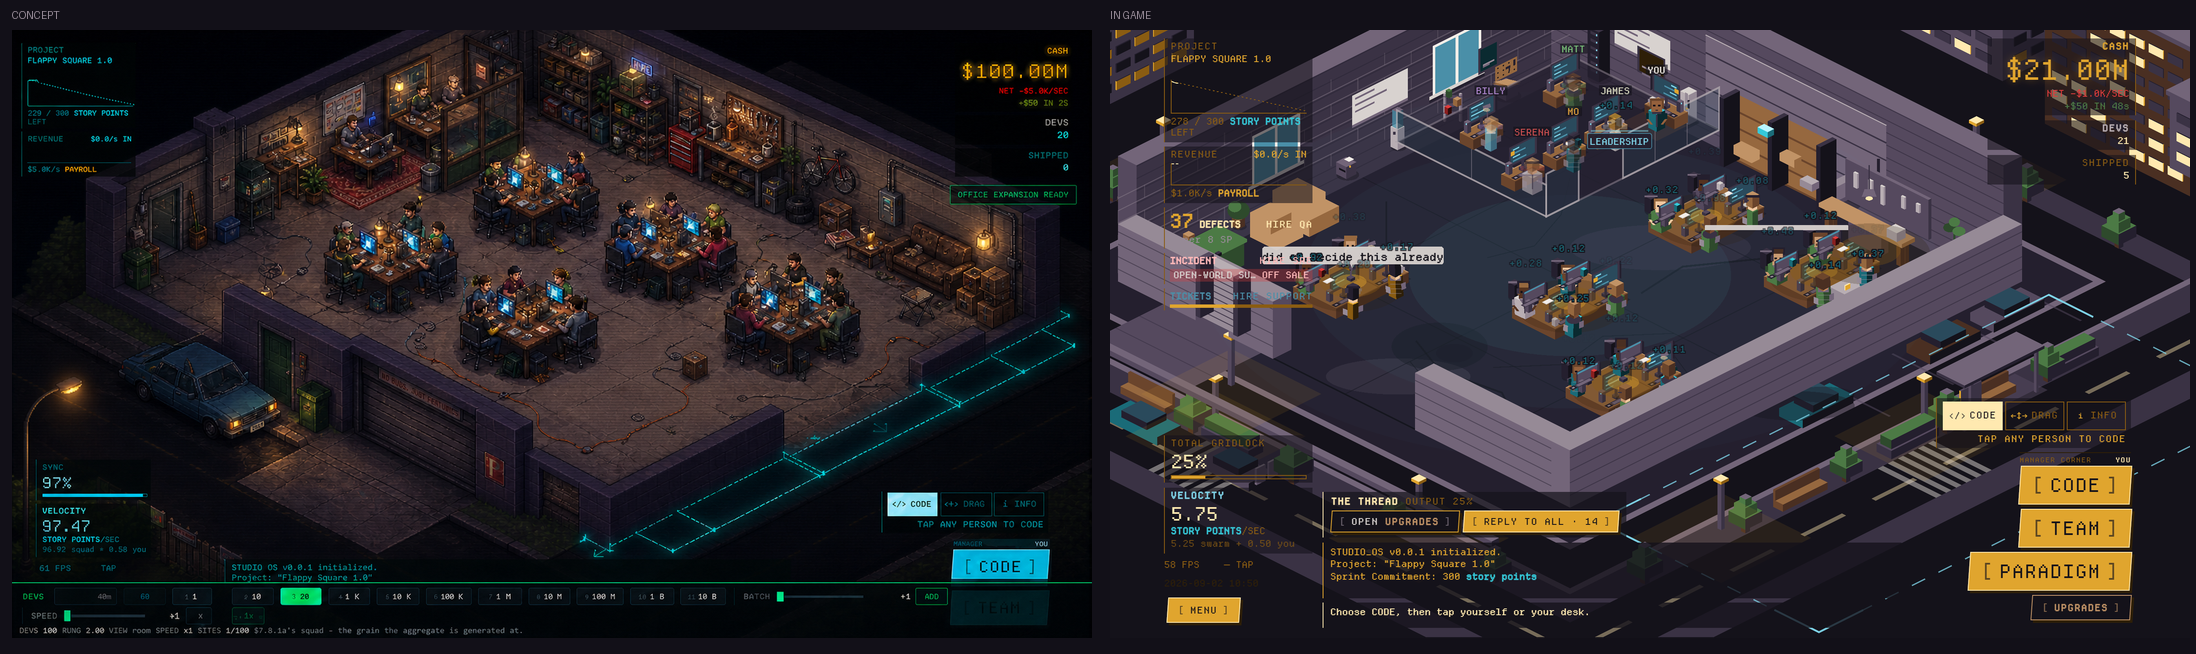
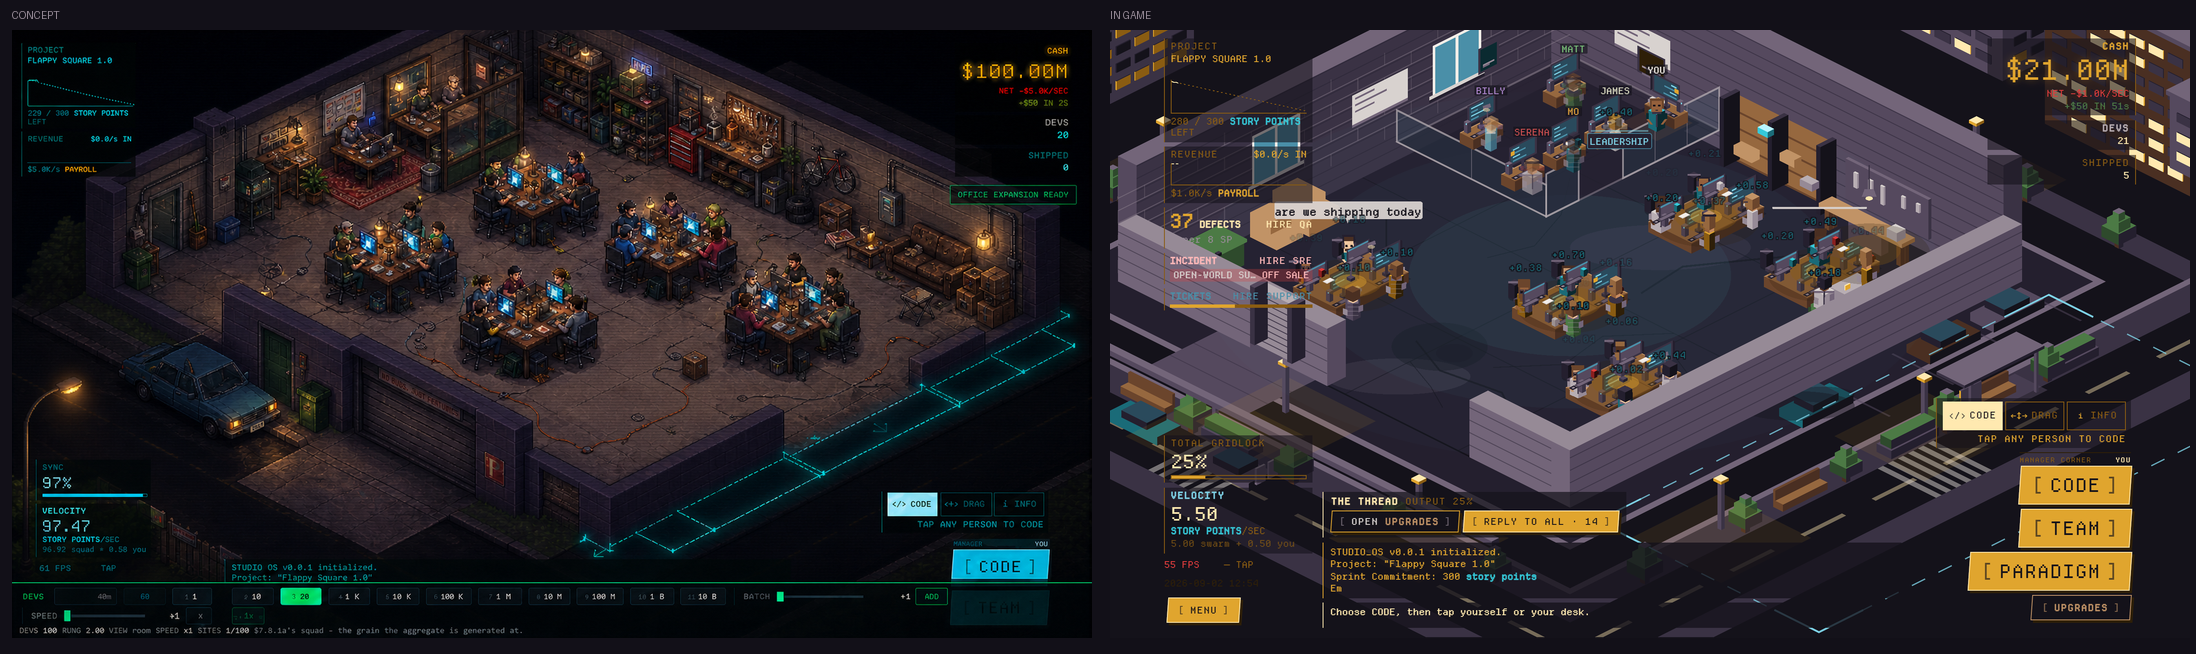
fix: one prop system per room, one vehicle door, and a gate that catches clashes
The water cooler drawn inside the executive glass was not a placement
mistake. The garage had two prop systems with a claim on the same walls:
7.8.0c's authored plots, and 7.8.1's ring that spaces dressing along the far
walls by arithmetic. The room had two workbenches, two fridges and two shelf
units, and the ring - which knows nothing about what else stands there - put
a cooler where the suite's pane goes. A plan and a generator cannot both own
the same wall; the plan wins, and the walk targets the ring used to supply as
a side effect now come from the plan's kettle and fridge.

The old up-and-over door painted on the back wall is gone. It was the
garage's one statement until 7.8.0b cut a real roll-up into the street wall,
and keeping both gave the room two front doors on opposite walls, one opening
onto the neighbour's plot. A garage has one vehicle door.

The gate now sits at 0.62 along the frontage rather than centred, because at
this camera the middle of that wall lands under the HUD's left column and the
one object the player most needs to see was behind HIRE SUPPORT. The concept
puts it right of centre for the same composition reason.

And the class has a gate now. Every instance of two objects in one place was
found by eye at four times magnification, which is not a method. The check is
every rectangle the garage claims - props, pods, and 7.8.12's suite converted
back into plan space - against every other from one list, plus containment
[…]

diff --git a/src/render/room.ts b/src/render/room.ts
@@ -3291,40 +3291,6 @@ function drawFridge(g: Graphics, x: number, y: number) {
   g.rect(x - 3.4, y - 18, 1.6, 1.6).fill(c(RAMPS.CALM[2]))
 }
 
-/**
- * The garage door — a segmented panel on the back-right wall.
- *
- * Part of the shell, not a prop: the studio grows *inside* the garage, so the
- * door stays through every expansion. Drawn as five horizontal bands in the
- * wall plane with a handle at the pull end, and it is the single strongest
- * "this is a garage" signal in the room — an office has neither a segmented
- * door nor a concrete slab to roll one over.
- *
- * `(x0, y0)` and `(x1, y1)` are the two ends of the door's floor line; `h` is
- * its height up the wall. The top edge is parallel to the bottom for the same
- * reason the skirting is: anything else would be a shape that does not lie in
- * the wall.
- */
-function drawGarageDoor(g: Graphics, x0: number, y0: number, x1: number, y1: number, h: number) {
-  g.moveTo(x0, y0)
-    .lineTo(x1, y1)
-    .lineTo(x1, y1 - h)
-    .lineTo(x0, y0 - h)
-    .closePath()
-    .fill(c(RAMPS.NEUTRAL[4]))
-  // The track shadow where the door meets the slab.
-  g.moveTo(x0, y0).lineTo(x1, y1).stroke({ width: 1.5, color: c(RAMPS.NEUTRAL[0]) })
-  // Five panels, four seams.
-  for (let i = 1; i < 5; i++) {
-    const k = i / 5
-    g.moveTo(x0, y0 - h * k)
-      .lineTo(x1, y1 - h * k)
-      .stroke({ width: 1.5, color: c(RAMPS.NEUTRAL[2]) })
-  }
-  // The lit top edge, and the handle at the pull end.
-  g.moveTo(x0, y0 - h).lineTo(x1, y1 - h).stroke({ width: 1, color: c(RAMPS.NEUTRAL[6]) })
-  g.rect(x1 - 10, y1 - h * 0.62, 3, h * 0.22).fill(c(RAMPS.NEUTRAL[1]))
-}
 
 /**
  * A UPVC window in a back wall — two flat casements in a white frame, the
@@ -5102,6 +5068,18 @@ export function buildRoom(): RoomHandle {
       garageProps.clear()
       for (const prop of GARAGE_PROPS) drawGarageProp(garageProps, planProject, prop)
       /*
+       * §7.8.6's errands need somewhere to walk to, and the ring used to supply
+       * it as a side effect of drawing. With the ring gone in this room the
+       * plan supplies it directly — the kettle and the fridge, which are what a
+       * garage actually sends people to.
+       */
+      for (const name of ['THE KETTLE', 'THE FRIDGE']) {
+        const plot = GARAGE_PROPS.find((prop) => prop.name === name)
+        if (!plot) continue
+        const at = planProject((plot.gx0 + plot.gx1) / 2 - 1.1, (plot.gy0 + plot.gy1) / 2)
+        spots.water.push(standingSpot(at.x, at.y))
+      }
+      /*
        * **The pendant over the workbench** — the garage's second warm source.
        *
        * §7.8.1's first frame is "a dark home garage, lit only by the monitor",
@@ -5550,17 +5528,19 @@ export function buildRoom(): RoomHandle {
             .stroke({ width: 1, color: c(RAMPS.NEUTRAL[5]), alpha: 0.25 })
         }
       }
-      // The garage door, centred on the back-right wall — the right wall's one
-      // statement, and the windows live on the left wall where the brick is.
-      // Drawn after the skirting so it stands on the slab rather than behind it.
-      drawGarageDoor(
-        shell,
-        topX + eastW * 0.3,
-        topY + eastH * 0.3,
-        topX + eastW * 0.7,
-        topY + eastH * 0.7,
-        WALL_H * 0.85,
-      )
+      /*
+       * **The up-and-over door on the back wall is gone.** §7.8.0c [2026-09-02].
+       *
+       * It was painted flat on the far-right wall and it was the garage's one
+       * statement — until §7.8.0b cut a *real* roll-up door into the street
+       * wall, with a reveal, guide rails, a lintel-free head and a forecourt
+       * outside it. Keeping both gave the room two front doors on opposite
+       * walls, one of which opened onto the neighbour's plot, and the painted
+       * one was the more prominent of the two.
+       *
+       * A garage has one vehicle door. The real one won, and the reason it wins
+       * is not that it is newer: it is that a car could be driven through it.
+       */
 
       // --- windows ------------------------------------------------------------
       //
@@ -5771,10 +5751,31 @@ export function buildRoom(): RoomHandle {
     const walls = ['left', 'right'] as const
     const counts = [0, 0]
     for (let i = 0; i < ring.length; i++) counts[i % 2]++
+    /*
+     * §7.8.0c — **the garage has one prop system, not two.**
+     *
+     * This ring places §7.8.1's dressing evenly along the two far walls by
+     * arithmetic: workbench, shelf, fridge, coffee machine, water cooler,
+     * filing cabinet, printer, sofa. It is the right mechanism for the office
+     * floor, where the walls are long and empty and nothing else has a claim on
+     * them.
+     *
+     * In the garage it is the wrong one twice over. It **duplicates**
+     * `GARAGE_PROPS`, which authors the same objects at hand-placed positions
+     * off the canonical concept — so the room had two workbenches, two fridges
+     * and two shelf units. And because it knows nothing about what else stands
+     * on those walls, it put a water cooler **inside §7.8.12's glass**: the
+     * pane was drawn straight through it.
+     *
+     * A plan and a generator cannot both own the same wall. The plan wins here
+     * for the same reason §7.8.1e chose an authored floor over a generated one:
+     * the concept is a drawing, not a rule.
+     */
     const placed = [0, 0]
+    if (garage) ring.length = 0
     // The server rack takes the first slot on the right-hand wall, so the run
     // of props starts after it rather than through it.
-    if (props.serverRack) placed[1] = 1
+    if (props.serverRack && !garage) placed[1] = 1
     for (let i = 0; i < ring.length; i++) {
       const side = i % 2
       const wall = walls[side]
@@ -5788,7 +5789,7 @@ export function buildRoom(): RoomHandle {
       ring[i].draw(at.x, at.y, wall === 'left' ? -WALL_SLOPE : WALL_SLOPE)
     }
 
-    if (props.serverRack) {
+    if (props.serverRack && !garage) {
       // Against the back-right wall by the corner, where a rack goes: it is the
       // one thing in the room that wants a wall behind it, it is never in
       // anybody's way there, and it does not move as the dressing around it

diff --git a/GDD.html b/GDD.html
@@ -4271,6 +4271,39 @@ reason the cables do not: everything else in the room does.</p>
 room a garage before the door has even been read, and it now lives in the plan's frame with the
 cables and the cracks rather than being positioned off the shell's screen box — three marks on one
 floor, through one conversion.</p>
+<h6 id="one-prop-system-per-room">One prop system per room, and a gate that says so</h6>
+<p><strong>[2026-09-02.]</strong> §7.8.1's wall dressing is placed by a <em>ring</em>: workbench,
+shelf, fridge, coffee machine, water cooler, filing cabinet, printer and sofa, spaced evenly along
+the two far walls by arithmetic. That is the right mechanism for the office floor, where the walls
+are long and empty and nothing else has a claim on them.</p>
+<p>In the garage it was wrong twice. It <strong>duplicated</strong> §7.8.0c's authored plots — the
+room had two workbenches, two fridges and two shelf units — and because it knows nothing about what
+else stands on those walls it placed a water cooler <em>inside</em> §7.8.12's glass, with the pane
+drawn straight through it. <strong>A plan and a generator cannot both own the same wall.</strong>
+The plan wins here for the reason §7.8.1e chose an authored floor over a generated one: the concept
+is a drawing, not a rule. §7.8.6's walk targets, which the ring used to supply as a side effect of
+drawing, now come from the plan's own kettle and fridge.</p>
+<p><strong>And the class of defect now has a gate.</strong> Every instance of two objects in the same
+place was found by looking at a screenshot at four times magnification, which is not a method. What
+made them possible was always the same shape — two systems with a claim on one floor and no shared
+table — so the check is not "does prop X overlap object Y" one pair at a time. It is <em>every</em>
+rectangle the garage claims, including §7.8.12's suite converted back into plan space, checked
+against every other from one list, plus a containment check against the shell. A new prop is covered
+the moment it is added, which is the property a hand-checked pair can never have.</p>
+<h6 id="one-vehicle-door">A garage has one vehicle door</h6>
+<p>The <code>!unfolded</code> branch drew an up-and-over door painted flat on the back wall — the
+garage's one statement, until §7.8.0b cut a <em>real</em> roll-up into the street wall with a reveal,
+guide rails, a lintel-free head and a forecourt outside it. Keeping both gave the room two front
+doors on opposite walls, one of which opened onto the neighbour's plot, and the painted one was the
+more prominent. The real one wins, and not because it is newer: because a car could be driven
+through it.</p>
+<p><strong>The gate sits at 0.62 along the frontage rather than at its midpoint</strong>, and the
+reason is not architectural. At this camera the middle of that wall lands under the HUD's left
+column, so the one object in the room the player most needs to see was behind <code>INCIDENT</code>
+and <code>HIRE SUPPORT</code>. The concept puts its gate right of centre with the car and side door
+to its left, which is both the better composition and the only position where the gate is actually
+shown. §7.1's pane-of-glass rule cuts both ways: the interface does not move for the world, so the
+world moves for it.</p>
 <h6 id="a-turned-screen-does-not-turn-its-plane">A turned screen does not turn its plane</h6>
 <p><strong>[2026-09-02, and it is the defect §7.8.0b was written to prevent.]</strong> Mirroring a
 workstation flipped the screen's <em>shear</em> along with its position:

diff --git a/src/render/garage.test.ts b/src/render/garage.test.ts
@@ -18,6 +18,7 @@ import {
   opposite,
   plotsOverlap,
   podPlot,
+  type Plot,
 } from './garage.ts'
 import { insideShell, wallSegments } from './shell.ts'
 
@@ -308,6 +309,67 @@ describe('the shell', () => {
       expect(p.gy0).toBeGreaterThan(0)
       expect(p.gx1).toBeLessThan(GARAGE_SPAN)
       expect(p.gy1).toBeLessThan(GARAGE_SPAN)
+    }
+  })
+})
+
+/**
+ * §7.8.0c — **the clash gate.**
+ *
+ * Two objects standing in the same place is the defect this room kept
+ * producing, and every instance of it was found by looking at a screenshot at
+ * four times magnification. That is not a method; it is luck with a deadline.
+ *
+ * What made the instances possible was always the same shape: **two systems
+ * with a claim on the same floor and no shared table.** The plan against the
+ * suite, the plan against the legacy wall ring, the props against the glass. So
+ * the gate is not "does prop X overlap object Y" one pair at a time — it is
+ * *every* rectangle the garage claims, checked against every other, from one
+ * list. A new prop is covered the moment it is added, which is the property a
+ * hand-checked pair can never have.
+ */
+describe('nothing in the garage stands in anything else', () => {
+  /**
+   * Every rectangle the room claims, in the plan's own tiles.
+   *
+   * §7.8.12's suite is included by converting its lattice box back into plan
+   * space, because the suite is the one claimant that is *not* authored here
+   * and is therefore the one most able to disagree.
+   */
+  const claims = (): Plot[] => [
+    ...GARAGE_PROPS,
+    ...GARAGE_PODS.map(podPlot),
+    { ...GARAGE_LEADERSHIP, name: 'THE SUITE (reserved)' },
+  ]
+
+  it('gives every claimant its own floor', () => {
+    const all = claims()
+    for (let i = 0; i < all.length; i++) {
+      for (let j = i + 1; j < all.length; j++) {
+        expect({ a: all[i].name, b: all[j].name, clash: plotsOverlap(all[i], all[j]) })
+          .toEqual({ a: all[i].name, b: all[j].name, clash: false })
+      }
+    }
+  })
+
+  /**
+   * And nothing stands in a wall. A prop half inside the shell is the same
+   * defect as two props in each other, with the building as one of the two —
+   * and it is the one the eye forgives longest, because a shelf against a wall
+   * and a shelf *inside* a wall look identical until you get close.
+   */
+  it('keeps every claimant inside the walls', () => {
+    for (const plot of claims()) {
+      const corners: Array<[number, number]> = [
+        [plot.gx0, plot.gy0],
+        [plot.gx1 - 1e-6, plot.gy0],
+        [plot.gx0, plot.gy1 - 1e-6],
+        [plot.gx1 - 1e-6, plot.gy1 - 1e-6],
+      ]
+      for (const [gx, gy] of corners) {
+        expect({ at: plot.name, inside: insideShell(GARAGE_SHELL, gx, gy) })
+          .toEqual({ at: plot.name, inside: true })
+      }
     }
   })
 })

diff --git a/src/render/garage.ts b/src/render/garage.ts
@@ -421,7 +421,22 @@ export function garageShellRuns(
   const spanGy = maxGy - minGy
   const rollWidth = Math.min(ROLLUP_WIDTH, spanGx * 0.44)
   const doorWidth = Math.min(SIDE_DOOR_WIDTH, spanGy * 0.16)
-  const rollAt = minGx + spanGx / 2 - rollWidth / 2
+  /*
+   * **The gate sits along the wall at 0.62, not at its midpoint.** [2026-09-02]
+   *
+   * Centred is where a garage door goes if you are drawing a garage in
+   * isolation. It is the wrong place here for a reason that has nothing to do
+   * with the building: at this camera the middle of the street wall lands under
+   * the HUD's left column, so the one object in the room the player most needs
+   * to see was behind `INCIDENT` and `HIRE SUPPORT`.
+   *
+   * The concept puts its gate right of centre on that frontage with the car and
+   * the side door to its left, which is both a better composition and — since
+   * the HUD is fixed furniture the world has to live with — the only position
+   * where the gate is actually shown. §7.1's pane-of-glass rule cuts both ways:
+   * the interface does not move for the world, so the world moves for it.
+   */
+  const rollAt = minGx + spanGx * 0.62 - rollWidth / 2
   return [
     { edge: 'far-left', at: minGx, from: minGy, to: maxGy },
     { edge: 'far-right', at: minGy, from: minGx, to: maxGx },
